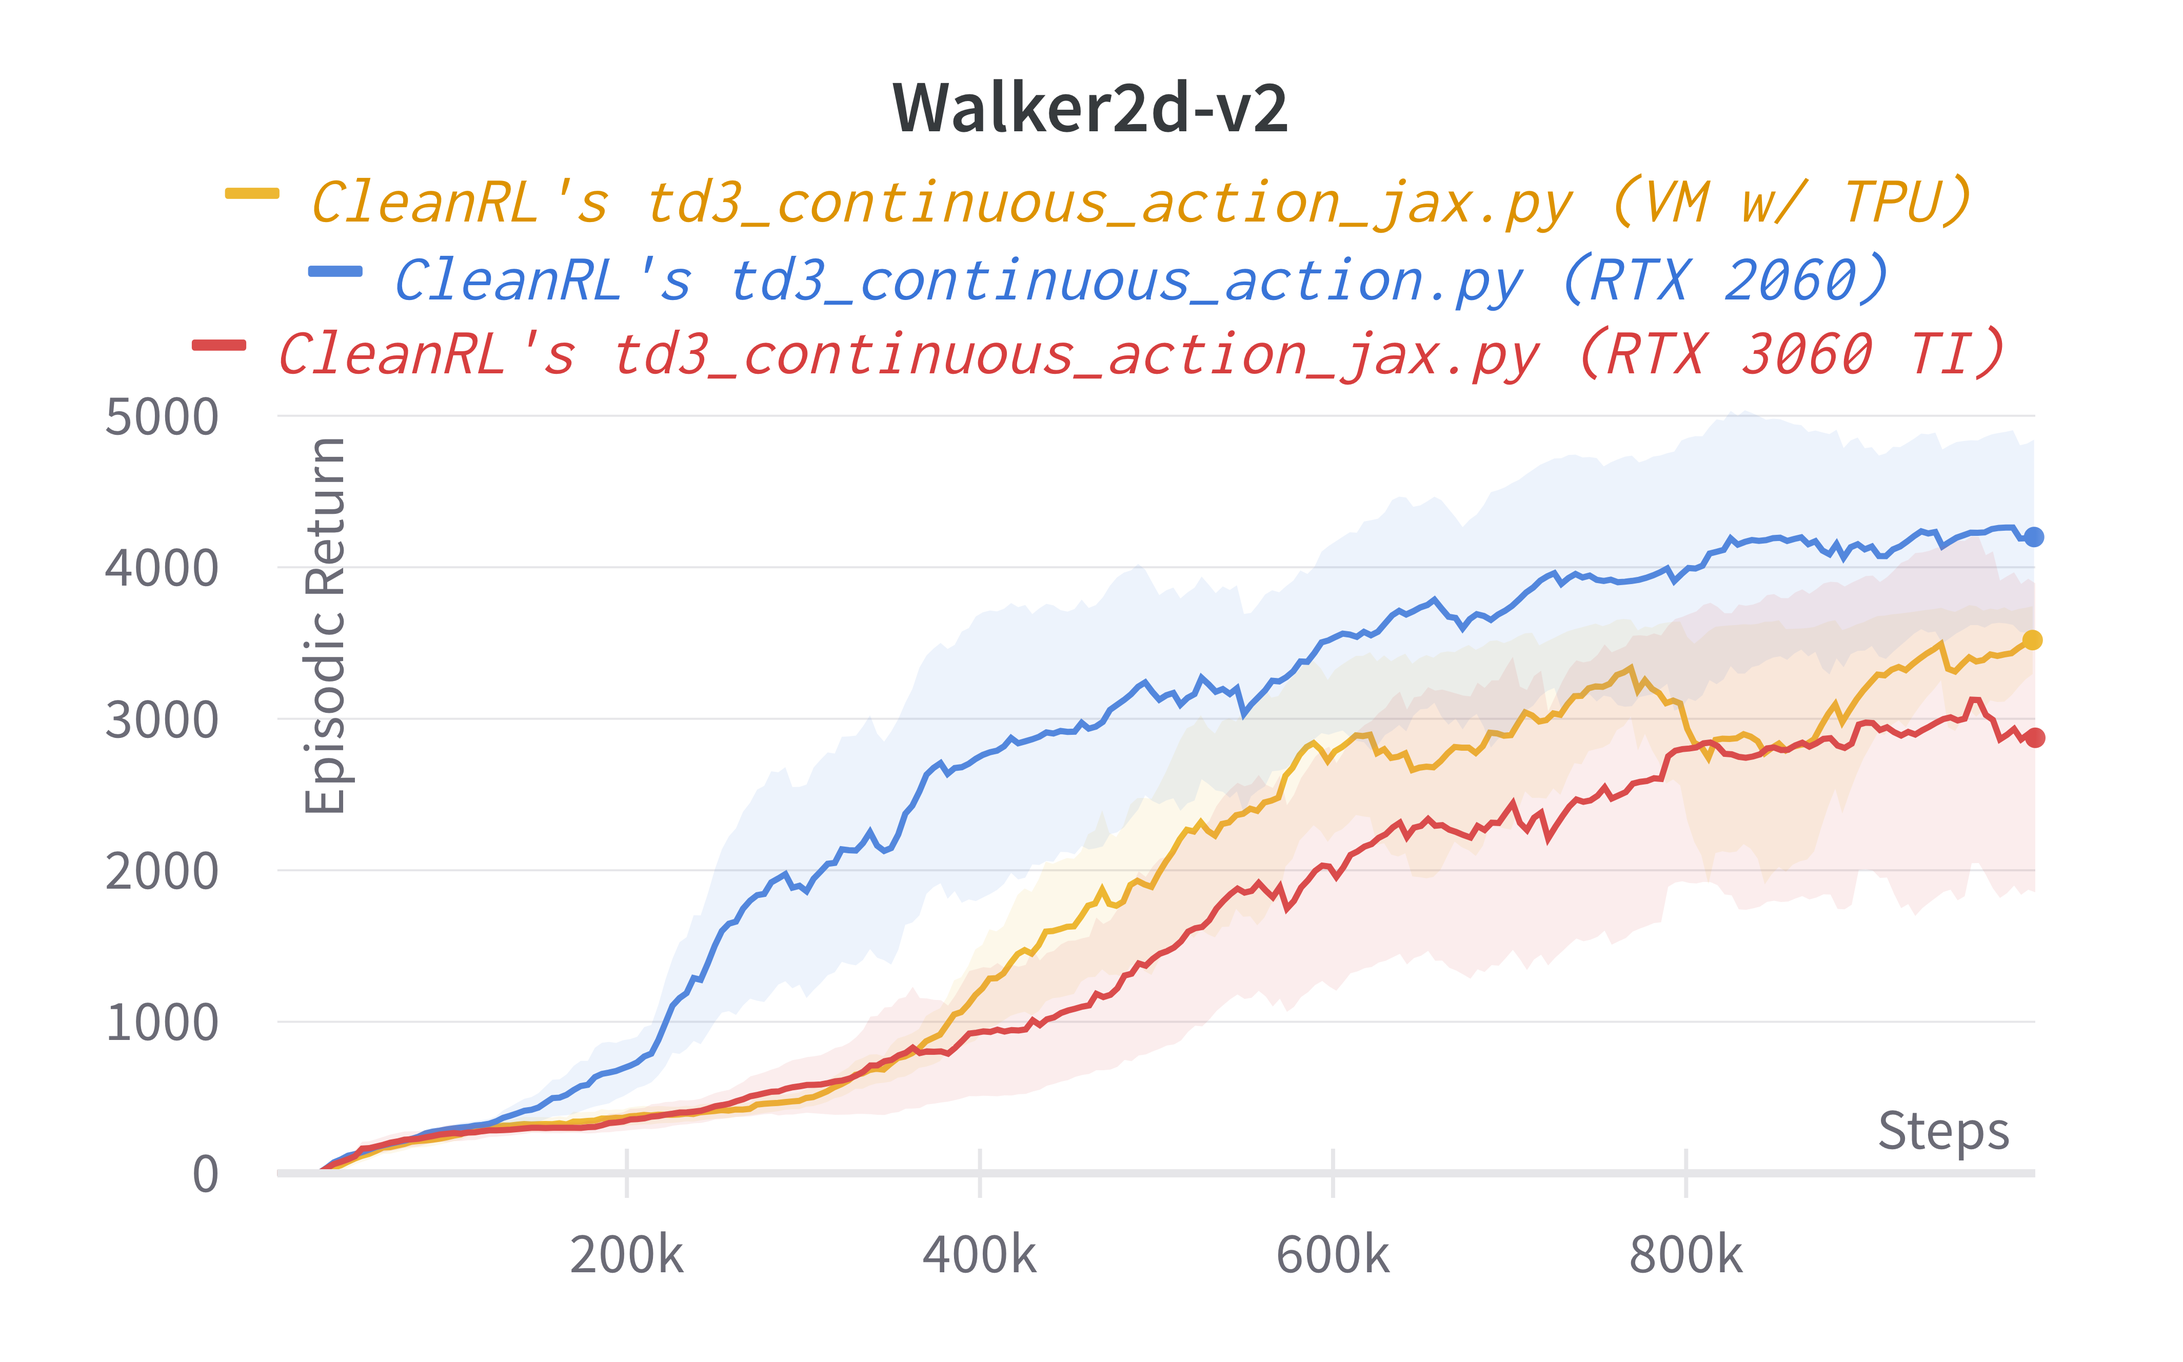
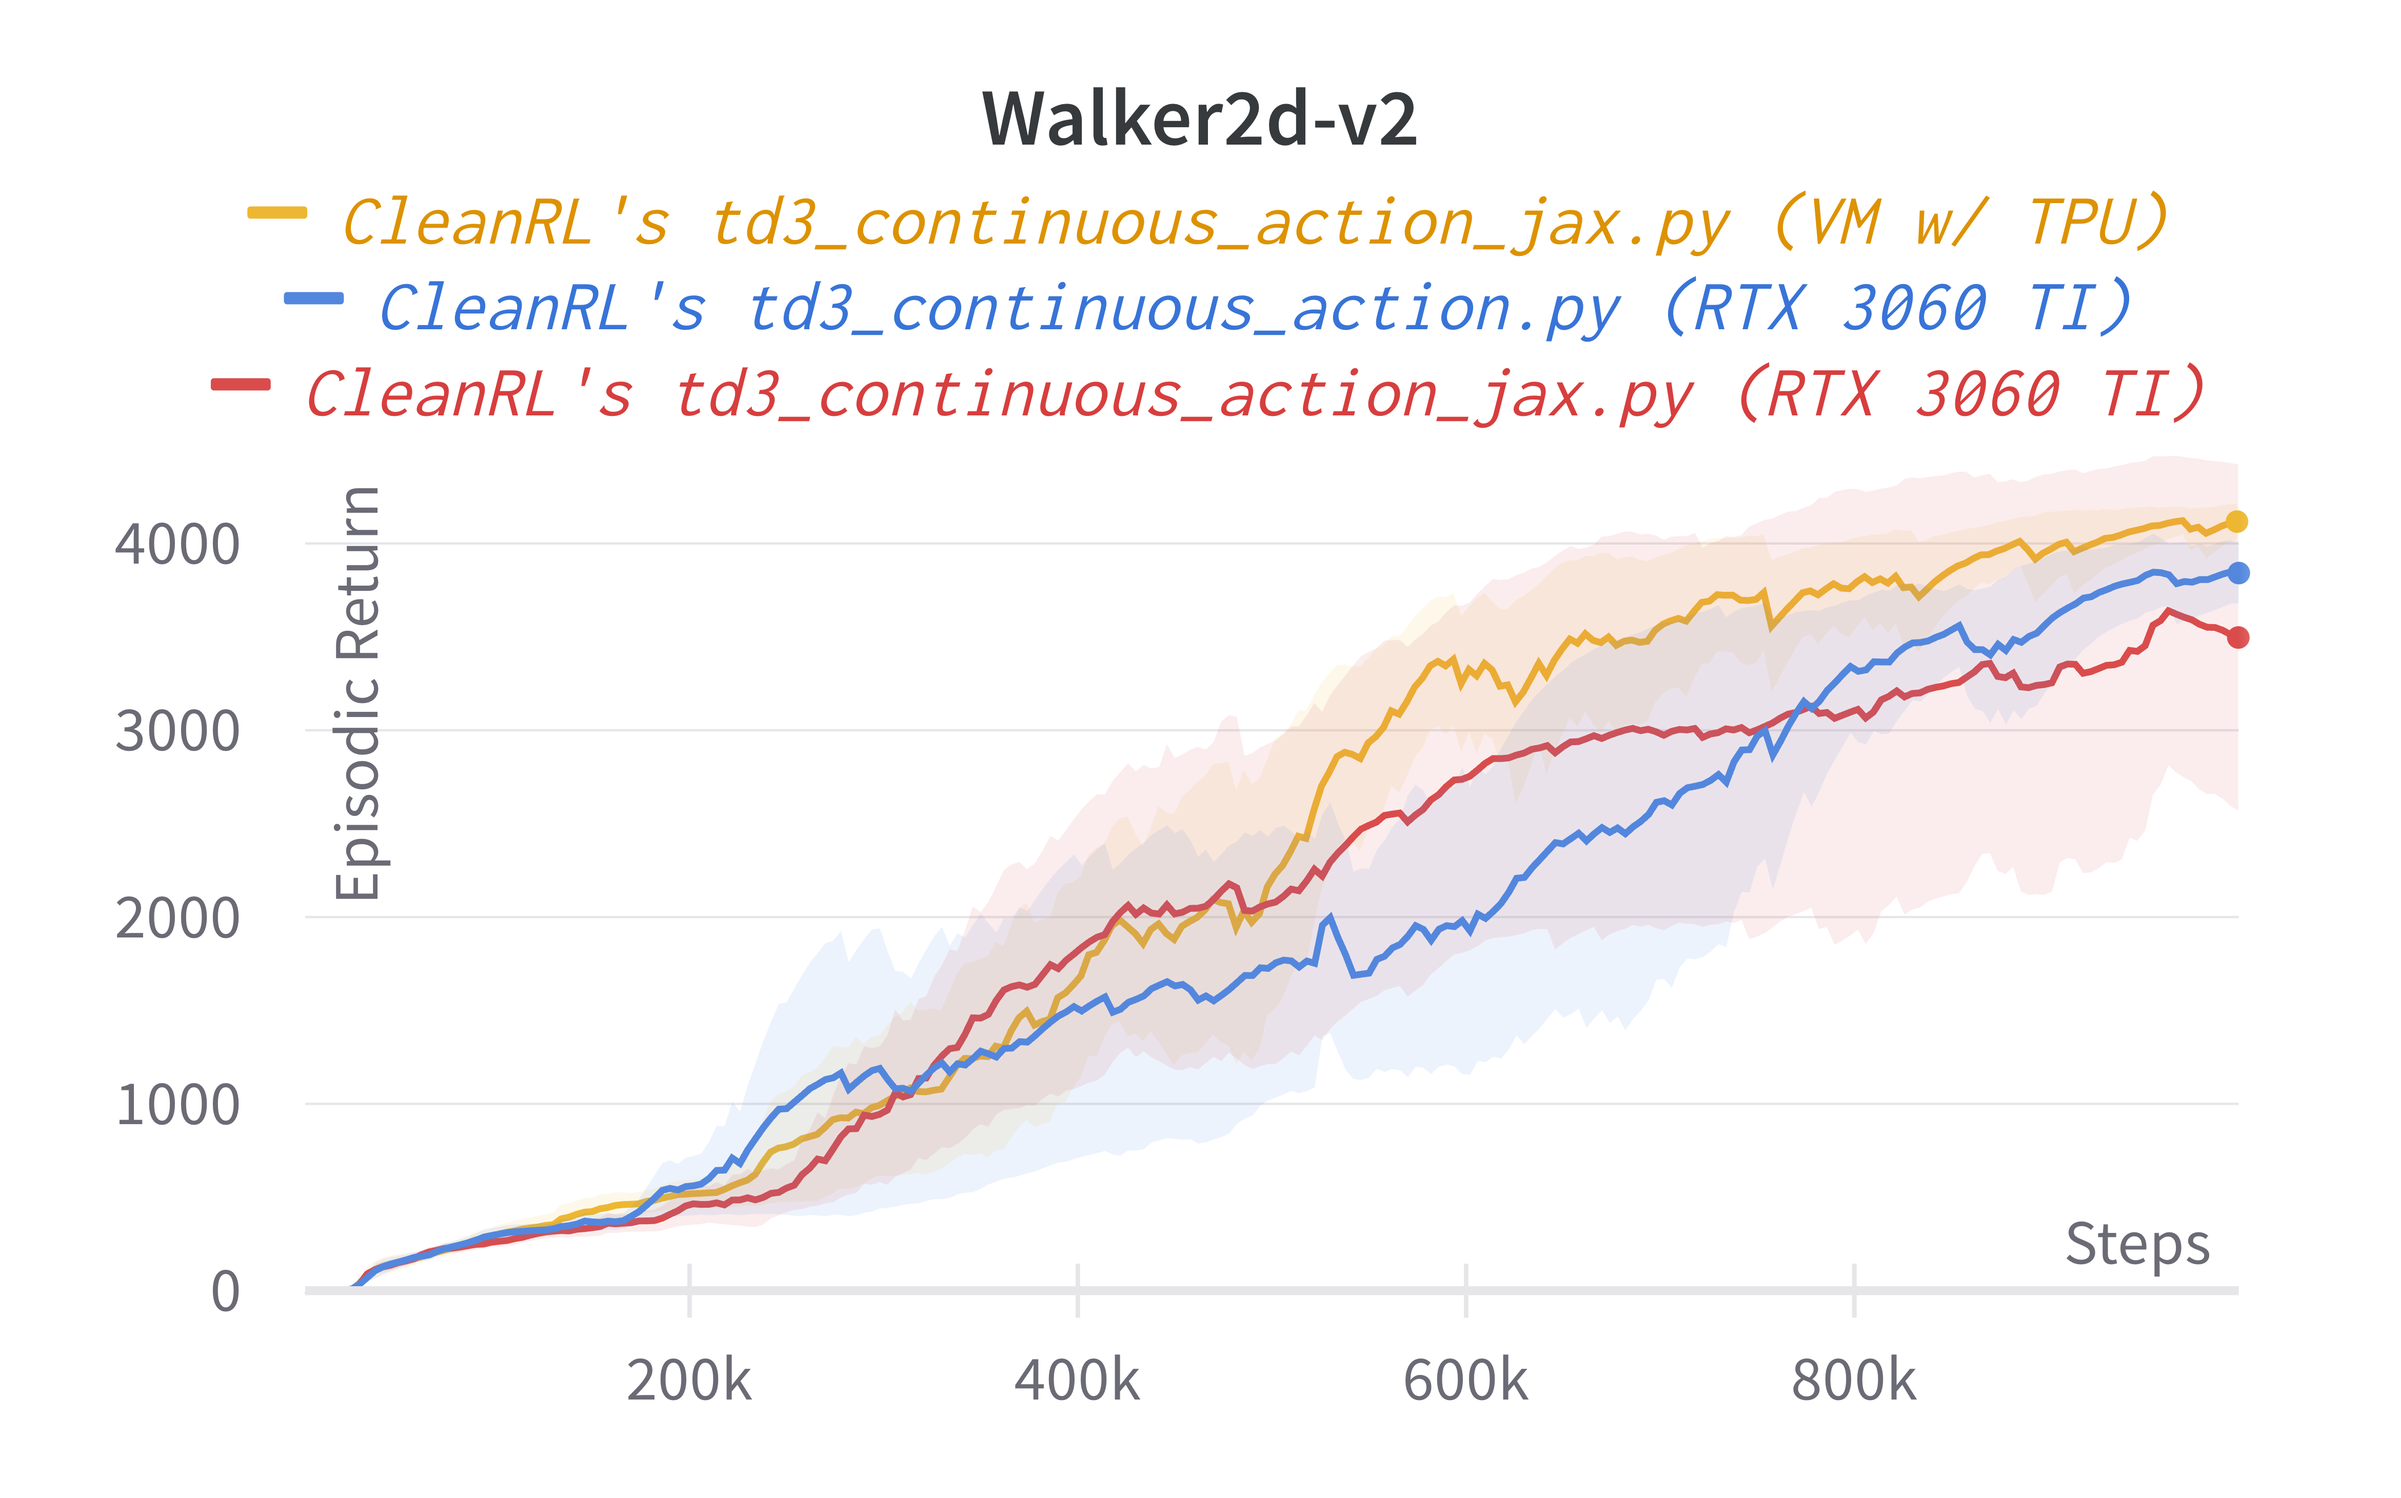
TD3 jax fix (#285)
* initial fix

* fixes git error

* fixes typo

* run precommit

* update jax version

* update docs

* use emgithub.com v1

diff --git a/cleanrl_utils/benchmark.py b/cleanrl_utils/benchmark.py
@@ -12,6 +12,8 @@ def parse_args():
         help="the command to run")
     parser.add_argument("--num-seeds", type=int, default=3,
         help="the number of random seeds")
+    parser.add_argument("--start-seed", type=int, default=1,
+        help="the number of random seeds")
     parser.add_argument('--workers', type=int, default=0,
         help='the number of eval workers to run benchmark experimenets (skips evaluation when set to 0)')
     args = parser.parse_args()
@@ -32,7 +34,7 @@ if __name__ == "__main__":
     commands = []
     for seed in range(1, args.num_seeds + 1):
         for env_id in args.env_ids:
-            commands += [" ".join([args.command, "--env-id", env_id, "--seed", str(seed)])]
+            commands += [" ".join([args.command, "--env-id", env_id, "--seed", str(args.start_seed + seed)])]
 
     print(commands)
 
@@ -42,4 +44,4 @@ if __name__ == "__main__":
         executor = ThreadPoolExecutor(max_workers=args.workers, thread_name_prefix="cleanrl-benchmark-worker-")
         for command in commands:
             executor.submit(run_experiment, command)
-        executor.shutdown(wait=True, cancel_futures=False)
+        executor.shutdown(wait=True)

diff --git a/cleanrl/td3_continuous_action_jax.py b/cleanrl/td3_continuous_action_jax.py
@@ -199,10 +199,13 @@ if __name__ == "__main__":
         # TODO Maybe pre-generate a lot of random keys
         # also check https://jax.readthedocs.io/en/latest/jax.random.html
         key, noise_key = jax.random.split(key, 2)
-        clipped_noise = jnp.clip(
-            (jax.random.normal(noise_key, actions[0].shape) * args.policy_noise),
-            -args.noise_clip,
-            args.noise_clip,
+        clipped_noise = (
+            jnp.clip(
+                (jax.random.normal(noise_key, actions.shape) * args.policy_noise),
+                -args.noise_clip,
+                args.noise_clip,
+            )
+            * actor.action_scale
         )
         next_state_actions = jnp.clip(
             actor.apply(actor_state.target_params, next_observations) + clipped_noise,

diff --git a/docs/rl-algorithms/td3.md b/docs/rl-algorithms/td3.md
@@ -116,7 +116,7 @@ Additionally, when drawing exploration noise that is added to the actions produc
 
 To run benchmark experiments, see :material-github: [benchmark/td3.sh](https://github.com/vwxyzjn/cleanrl/blob/master/benchmark/td3.sh). Specifically, execute the following command:
 
-<script src="https://emgithub.com/embed.js?target=https%3A%2F%2Fgithub.com%2Fvwxyzjn%2Fcleanrl%2Fblob%2F2e2dc9c6ede5e5e5df3eaea73c458bb9a83507d2%2Fbenchmark%2Ftd3.sh%23L1-L7&style=github&showBorder=on&showLineNumbers=on&showFileMeta=on&showCopy=on"></script>
+<script src="https://emgithub.com/embed.js?target=https%3A%2F%2Fgithub.com%2Fvwxyzjn%2Fcleanrl%2Fblob%2Fmaster%2Fbenchmark%2Ftd3.sh%23L1-L7&style=github&type=code&showBorder=on&showLineNumbers=on&showFileMeta=on&showFullPath=on&showCopy=on"></script>
 
 
 Below are the average episodic returns for [`td3_continuous_action.py`](https://github.com/vwxyzjn/cleanrl/blob/master/cleanrl/td3_continuous_action.py) (3 random seeds). To ensure the quality of the implementation, we compared the results against (Fujimoto et al., 2018)[^2].
@@ -177,7 +177,7 @@ The [td3_continuous_action_jax.py](https://github.com/vwxyzjn/cleanrl/blob/maste
 
 ```bash
 poetry install --with mujoco,jax
-poetry run pip install --upgrade "jax[cuda]==0.3.14" -f https://storage.googleapis.com/jax-releases/jax_cuda_releases.html
+poetry run pip install --upgrade "jax[cuda]==0.3.17" -f https://storage.googleapis.com/jax-releases/jax_cuda_releases.html
 poetry run python -c "import mujoco_py"
 python cleanrl/td3_continuous_action_jax.py --help
 poetry install --with mujoco # only works in Linux
@@ -198,16 +198,15 @@ See [related docs](/rl-algorithms/td3/#implementation-details) for `td3_continuo
 
 To run benchmark experiments, see :material-github: [benchmark/ddpg.sh](https://github.com/vwxyzjn/cleanrl/blob/master/benchmark/ddpg.sh). Specifically, execute the following command:
 
-<script src="https://emgithub.com/embed.js?target=https%3A%2F%2Fgithub.com%2Fvwxyzjn%2Fcleanrl%2Fblob%2F5bfdd4574d25474d641278ef5c47a97932b5b9e2%2Fbenchmark%2Ftd3.sh%23L9-L16&style=github&showBorder=on&showLineNumbers=on&showFileMeta=on&showCopy=on"></script>
+<script src="https://emgithub.com/embed.js?target=https%3A%2F%2Fgithub.com%2Fvwxyzjn%2Fcleanrl%2Fblob%2Fmaster%2Fbenchmark%2Ftd3.sh%23L9-L16&style=github&type=code&showBorder=on&showLineNumbers=on&showFileMeta=on&showFullPath=on&showCopy=on"></script>
 
 Below are the average episodic returns for [`td3_continuous_action.py`](https://github.com/vwxyzjn/cleanrl/blob/master/cleanrl/td3_continuous_action.py) (3 random seeds). To ensure the quality of the implementation, we compared the results against (Fujimoto et al., 2018)[^2].
 
-| Environment      | [`td3_continuous_action_jax.py`](https://github.com/vwxyzjn/cleanrl/blob/master/cleanrl/td3_continuous_action_jax.py) (RTX 3060 Ti) | [`td3_continuous_action_jax.py`](https://github.com/vwxyzjn/cleanrl/blob/master/cleanrl/td3_continuous_action_jax.py) (VM w/ TPU) | [`td3_continuous_action.py`](https://github.com/vwxyzjn/cleanrl/blob/master/cleanrl/td3_continuous_action.py) (RTX 2060) | [`TD3.py`](https://github.com/sfujim/TD3/blob/master/TD3.py) (Fujimoto et al., 2018, Table 1)[^2]  |
+| Environment      | [`td3_continuous_action_jax.py`](https://github.com/vwxyzjn/cleanrl/blob/master/cleanrl/td3_continuous_action_jax.py) (RTX 3060 TI) | [`td3_continuous_action_jax.py`](https://github.com/vwxyzjn/cleanrl/blob/master/cleanrl/td3_continuous_action_jax.py) (VM w/ TPU) | [`td3_continuous_action.py`](https://github.com/vwxyzjn/cleanrl/blob/master/cleanrl/td3_continuous_action.py) (RTX 3060 TI) | [`TD3.py`](https://github.com/sfujim/TD3/blob/master/TD3.py) (Fujimoto et al., 2018, Table 1)[^2]  |
 | ----------- | ----------- | ----------- | ----------- |  ----------- | 
-| HalfCheetah |  9099.93 ± 1171.83  | 9127.81 ± 965.42  | 9018.31 ± 1078.31      |9636.95 ± 859.065  |
-| Walker2d |  2874.39 ± 1684.57 | 3519.38 ± 368.02 | 4246.07 ± 1210.84     |  4682.82 ± 539.64 | 
-| Hopper |   3382.66 ± 242.52 | 3126.40 ± 558.93 | 3391.78 ± 232.21        |  3564.07 ± 114.74 | 
-
+| HalfCheetah |  9408.62 ± 473.23  | 8948.33 ± 1196.87  | 9449.94 ± 1586.49      |9636.95 ± 859.065  |
+| Walker2d |  3512.14 ± 1576.59 | 4107.63 ± 173.93  | 3851.55 ± 335.29     |  4682.82 ± 539.64 | 
+| Hopper |   2898.62 ± 485.18 | 3151.80 ± 458.68 | 3162.21 ± 261.08        |  3564.07 ± 114.74 | 
 
 
 ???+ info

diff --git a/docs/rl-algorithms/ddpg.md b/docs/rl-algorithms/ddpg.md
@@ -253,7 +253,7 @@ The [ddpg_continuous_action_jax.py](https://github.com/vwxyzjn/cleanrl/blob/mast
 
 ```bash
 poetry install --with mujoco,jax
-poetry run pip install --upgrade "jax[cuda]==0.3.14" -f https://storage.googleapis.com/jax-releases/jax_cuda_releases.html
+poetry run pip install --upgrade "jax[cuda]==0.3.17" -f https://storage.googleapis.com/jax-releases/jax_cuda_releases.html
 poetry run python -c "import mujoco_py"
 python cleanrl/ddpg_continuous_action_jax.py --help
 poetry install --with mujoco # only works in Linux

diff --git a/docs/rl-algorithms/dqn.md b/docs/rl-algorithms/dqn.md
@@ -220,7 +220,7 @@ The [dqn_atari_jax.py](https://github.com/vwxyzjn/cleanrl/blob/master/cleanrl/dq
 
 ```bash
 poetry install --with atari,jax
-poetry run pip install --upgrade "jax[cuda]==0.3.14" -f https://storage.googleapis.com/jax-releases/jax_cuda_releases.html
+poetry run pip install --upgrade "jax[cuda]==0.3.17" -f https://storage.googleapis.com/jax-releases/jax_cuda_releases.html
 python cleanrl/dqn_atari_jax.py --env-id BreakoutNoFrameskip-v4
 python cleanrl/dqn_atari_jax.py --env-id PongNoFrameskip-v4
 ```

diff --git a/docs/rl-algorithms/ppo.md b/docs/rl-algorithms/ppo.md
@@ -458,7 +458,7 @@ The [ppo_atari_envpool_xla_jax.py](https://github.com/vwxyzjn/cleanrl/blob/maste
 
 ```bash
 poetry install -E "envpool jax"
-poetry run pip install --upgrade "jax[cuda]==0.3.14" -f https://storage.googleapis.com/jax-releases/jax_cuda_releases.html
+poetry run pip install --upgrade "jax[cuda]==0.3.17" -f https://storage.googleapis.com/jax-releases/jax_cuda_releases.html
 python cleanrl/ppo_atari_envpool_xla_jax.py --help
 python cleanrl/ppo_atari_envpool_xla_jax.py --env-id Breakout-v5
 ```
